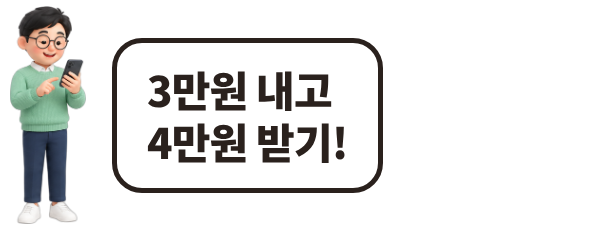
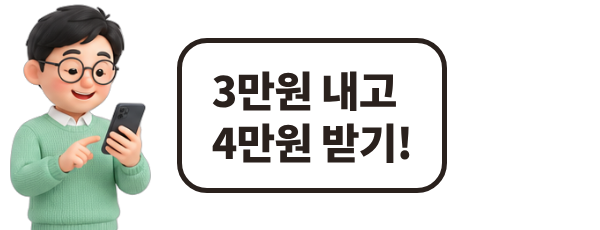
Event scenes: show characters from the waist up
Talk scenes are now 900x430 with larger waist-up figures, and the
narrow strips use the same crop, so the pictures take less room.

Claude-Session: https://claude.ai/code/session_01HUwuhevVJsp4MKRQXDpWmN

Changed region(s): [[0.0, 0.0, 0.75, 1.0]]

diff --git a/tools/3d/compose_cast.py b/tools/3d/compose_cast.py
@@ -106,14 +106,19 @@ def bub(text, bg='#fff', fs=38):
     return f'<div style="background:{bg};border:4px solid {INK};border-radius:28px;padding:{fs*.42:.0f}px {fs*.8:.0f}px;font:700 {fs}px/1.25 {F};color:{INK};white-space:nowrap">{text}</div>'
 
 
+def bust(name, vis, x, cut=0.56):
+    """대화 장면용 상반신: 허리 아래는 패널 밖으로 잘린다."""
+    return (f'<div style="position:absolute;left:{x}px;bottom:0;height:{vis}px;overflow:hidden">'
+            f'<img class="cc" src="{CAST}{name}.png" style="display:block;height:{vis/cut:.0f}px"></div>')
+
+
 def duo(lt, lc, lh, rt, rc, rh, bg):
     return f"""<div style="position:absolute;inset:4px;background:{bg};border:4px solid {INK};border-radius:44px;overflow:hidden">
-<div style="position:absolute;left:0;right:0;top:400px;bottom:-100px;background:rgba(255,255,255,.55);border-radius:50% 50% 0 0/50px 50px 0 0"></div>
-{ch(lc, lh, 110, 30)}{ch(rc, rh, 580, 30)}
+{bust(lc, lh, 120)}{bust(rc, rh, 560)}
 <div class="bb" style="position:absolute;left:30px;top:28px;z-index:2">{bub(lt)}</div><div class="bb" style="position:absolute;right:30px;top:28px;z-index:2">{bub(rt, '#FFD966')}</div></div>"""
 
 
-H = 300  # 말풍선(위쪽 약 165px)과 겹치지 않는 높이
+H = 240  # 상반신 보이는 높이. 말풍선(위쪽 약 165px)과 겹치지 않게
 S = {
     '130': duo('친구랑 같이<br>시작할래요!', 'adult-recommend', H, '두 분 다 5%씩<br>적립해 드려요!', 'teacher-clap', H, '#E6F6EE'),
     '206': duo('한 번에 결제하기<br>부담돼요', 'adult-phone', H, '카드 무이자 할부로<br>나눠 내세요!', 'teacher-explain', H, '#E3EDFF'),
@@ -129,7 +134,7 @@ S = {
 # ── 좁은 띠 그림(투명 배경): 캐릭터 한 명 + 큰 말풍선 ───────────────
 def strip(w, who, text):
     return f"""<div style="position:absolute;inset:0;display:flex;align-items:center;gap:26px;padding:0 10px">
-<img src="{CAST}{who}.png" style="height:218px;flex:none">
+<div style="flex:none;align-self:flex-end;height:226px;overflow:hidden"><img src="{CAST}{who}.png" style="display:block;height:404px"></div>
 <div style="background:#fff;border:5px solid {INK};border-radius:30px;padding:20px 30px;font:800 42px/1.25 {F};color:{INK};letter-spacing:-.02em">{text}</div></div>"""
 
 
@@ -143,7 +148,7 @@ SCENE_FILE = {'130': 'scene-friend.png'}
 
 jobs = []
 for pid, html in B.items(): jobs.append((f'{root}/{pid}/{BANNER_FILE[pid]}', 1080, 1080, html, False))
-for pid, html in S.items(): jobs.append((f'{root}/{pid}/{SCENE_FILE.get(pid, "scene-hello.png")}', 900, 540, html, True))
+for pid, html in S.items(): jobs.append((f'{root}/{pid}/{SCENE_FILE.get(pid, "scene-hello.png")}', 900, 430, html, True))
 for (pid, name, w), html in X.items(): jobs.append((f'{root}/{pid}/{name}', w, 230, html, True))
 
 with sync_playwright() as p:
